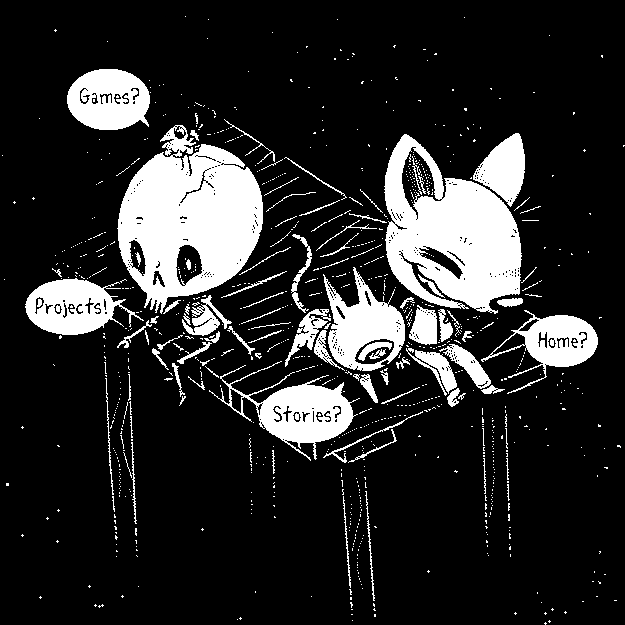
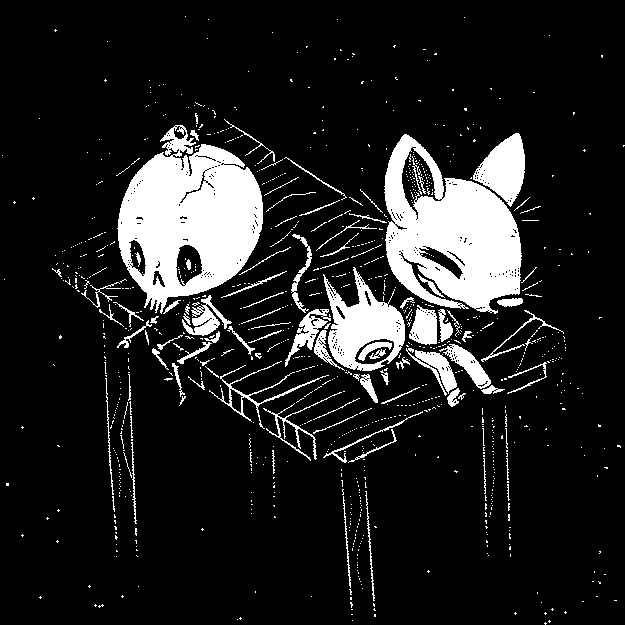
Added bubbles to splash

diff --git a/index.html b/index.html
@@ -29,21 +29,36 @@
 </head>
 <body>
   <div id='wrap'>
-    <img src="media/content/main_dither_02.png" alt='shiba killy, cee the skeleton and polycat are sitting on a bridge surrounding by a starry black void' usemap="#workmap" loading='lazy' class="center">
-    <a class='killy' title="Killy takes you home" href="site/home.html"></a>
-    <a class='cee' title="Cee wants to draw" href="site/projects.html"></a>
-    <a class='polycat' title="Polycat has a story to tell" href="site/stories.html"></a>
-    <a class='viktor' title="Viktor counts to three" href="site/games.html"></a>
+    <img src="media/content/main_dither_02.png" alt='shiba killy, cee the skeleton and polycat are sitting on a bridge surrounding by a starry black void' loading='lazy' class="center">
+    <a class='killy' title="Killy takes you home" href="site/home.html">
+      <img src="media/interface/home_bubble.png" style="margin-top:110%;margin-left:50%">
+      <span>home</span>
+    </a>
+    <a class='cee' title="Cee wants to draw" href="site/projects.html">
+      <img src="media/interface/projects_bubble.png" style="margin-top:40%">
+      <span>projects</span>
+    </a>
+    <a class='polycat' title="Polycat has a story to tell" href="site/stories.html">
+      <img src="media/interface/stories_bubble.png" style="margin-top:90%">
+      <span>stories</span>
+    </a>
+    <a class='viktor' title="Viktor counts to three" href="site/games.html">
+      <img src="media/interface/games_bubble.png">
+      <span>games</span>
+    </a>
   </div>
   <style>
-    body { background-image: url('media/content/main_repeat.png'); margin:0; padding:0 }
-    body #wrap { max-width: 100vw;position: relative;width: 627px; margin:0 auto }
-    body #wrap img { max-width:100vw }
-    body #wrap a { display: block; position: absolute; }
-    body #wrap a.viktor { width: 18%; height: 13%; top: 9%; left: 8%; }
-    body #wrap a.polycat { width: 18%; height: 14%; top: 58%; left: 40%; }
-    body #wrap a.cee { width: 16%; height: 13%; top: 42%; left: 3%;}
-    body #wrap a.killy { width: 15%; height: 12%; top: 48%; left: 82%;}
+    body { background-image:url('media/content/main_repeat.png');margin:0;padding:0 }
+    #wrap { max-width:100vw;position:relative;width:627px;margin:0 auto }
+    #wrap img { max-width:100vw }
+    #wrap span { text-indent:-9999px }
+    #wrap a { display:block;position:absolute }
+    #wrap a * { display:none }
+    #wrap a:hover img {display:block}
+    #wrap a.viktor { width:27%;height:18%;top:9%;left:8% }
+    #wrap a.polycat { width:23%;height:32%;top:40%;left:40% }
+    #wrap a.cee { width:36%;height:38%;top:28%;left:3% }
+    #wrap a.killy { width:33%;height:49%;top:15%;left:64% }
   </style> 
 </body>
 </html>
